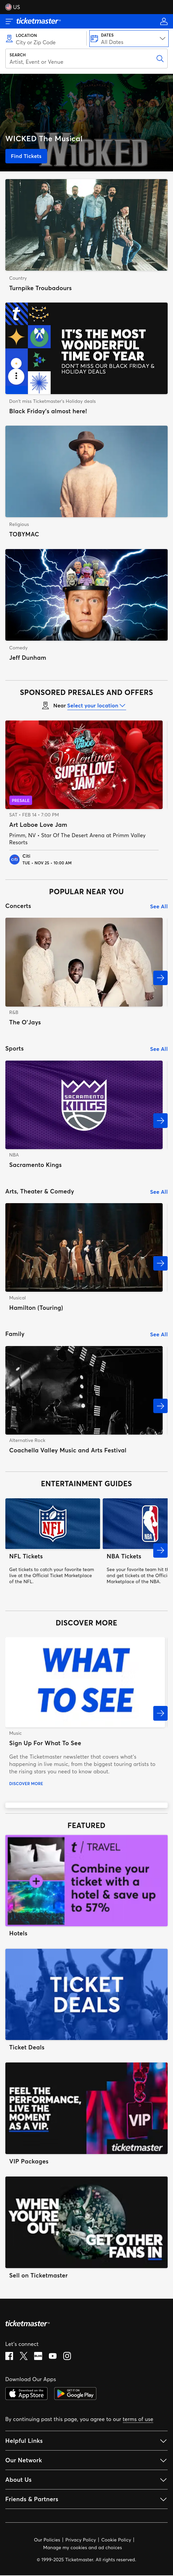
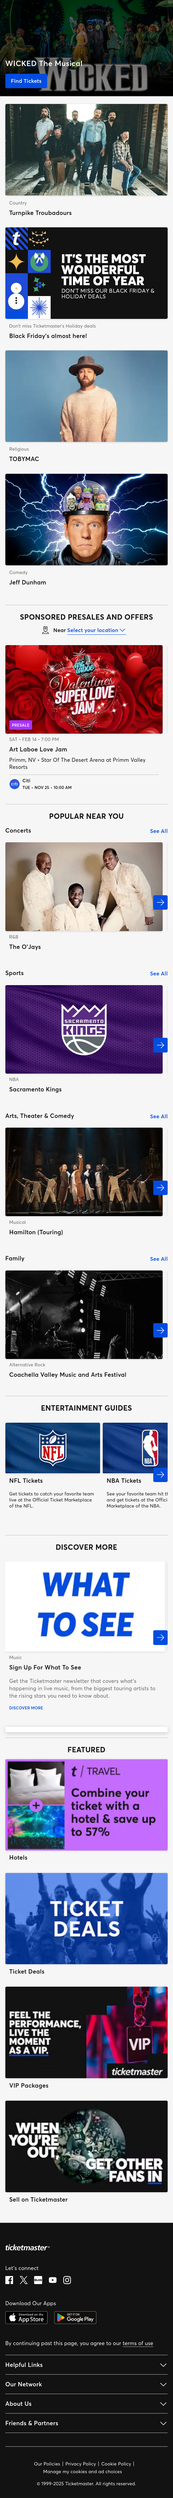
Updated TicketCard

diff --git a/src/components/TicketCard.jsx b/src/components/TicketCard.jsx
@@ -2,7 +2,8 @@ import React from "react";
 import { Box, Typography, Button } from "@mui/material";
 import { useEvent } from "../context/EventContext";
 
-import walletIcon from "../icons/icon_wallet.svg";
+import InfoOutlineIcon from '@mui/icons-material/InfoOutline';
+import barcodeIcon from "../icons/barcode-scan-icon.png";
 import verified from "../assets/ver.png";
 
 export default function TicketCard({ event, seatInfo }) {
@@ -28,25 +29,37 @@ export default function TicketCard({ event, seatInfo }) {
       }}
     >
       {/* Top Blue Bar */}
-      <Box
-        sx={{
-          height: 30,
-          background: "#0064ca",
-          borderTopLeftRadius: 8,
-          borderTopRightRadius: 8,
-          color: "#ffffff",
-          textAlign: "center",
-        }}
-      >
-        <Typography sx={{ pt: 0.5, fontSize: 13, fontWeight: 500 }}>
-          {ticket.title}
-        </Typography>
-      </Box>
+        <Box
+          sx={{
+            height: 30,
+            background: "#024ddf",
+            borderTopLeftRadius: 8,
+            borderTopRightRadius: 8,
+            color: "#ffffff",
+            display: "flex",
+            alignItems: "center",
+            px: 1,
+            position: "relative",
+          }}
+        >
+          {/* Left spacer */}
+          <Box sx={{ flex: 1 }} />
+
+          {/* Center title */}
+          <Typography sx={{ fontSize: 13, fontWeight: 500, textAlign: "center" }}>
+            {ticket.title}
+          </Typography>
+
+          {/* Right icon */}
+          <Box sx={{ flex: 1, display: "flex", justifyContent: "flex-end" }}>
+            <InfoOutlineIcon sx={{opacity: 0.7}}/>
+          </Box>
+        </Box>
 
       {/* SEC/ROW/SEAT */}
       <Box
         sx={{
-          background: "#0071e3",
+          background: "#024ddf",
           color: "white",
           p: 2,
           textAlign: "center",
@@ -61,21 +74,21 @@ export default function TicketCard({ event, seatInfo }) {
           }}
         >
           <Box sx={{ textAlign: "center" }}>
-            <Typography sx={{ opacity: 0.7, fontSize: 12 }}>SEC</Typography>
+            <Typography sx={{ opacity: 0.7, fontSize: 13 }}>SEC</Typography>
             <Typography sx={{ fontWeight: 700, fontSize: 22 }}>
               {seat.sec}
             </Typography>
           </Box>
 
           <Box sx={{ textAlign: "center" }}>
-            <Typography sx={{ opacity: 0.7, fontSize: 12 }}>ROW</Typography>
+            <Typography sx={{ opacity: 0.7, fontSize: 13 }}>ROW</Typography>
             <Typography sx={{ fontWeight: 700, fontSize: 22 }}>
               {seat.row}
             </Typography>
           </Box>
 
           <Box sx={{ textAlign: "center" }}>
-            <Typography sx={{ opacity: 0.7, fontSize: 12 }}>SEAT</Typography>
+            <Typography sx={{ opacity: 0.7, fontSize: 13 }}>SEAT</Typography>
             <Typography sx={{ fontWeight: 700, fontSize: 22 }}>
               {seat.seat}
             </Typography>
@@ -131,7 +144,7 @@ export default function TicketCard({ event, seatInfo }) {
       <Typography
         sx={{
           textAlign: "center",
-          mt: 4,
+          mt: 6.5,
           fontWeight: 500,
           fontSize: 15,
         }}
@@ -140,15 +153,15 @@ export default function TicketCard({ event, seatInfo }) {
       </Typography>
 
       {/* Add to Apple Wallet */}
-      <Box sx={{ p: 2, mt: 2, textAlign: "center" }}>
+      <Box sx={{ p: 2, mt: 0, textAlign: "center" }}>
         <Button
           variant="contained"
           sx={{
-            background: "#1a1a1a",
-            width: "70%",
-            borderRadius: 2,
+            background: "#024ddf",
+            width: "95%",
+            borderRadius: 0,
             textTransform: "none",
-            fontWeight: 500,
+            fontWeight: 600,
             display: "flex",
             alignItems: "center",
             justifyContent: "center",
@@ -159,11 +172,11 @@ export default function TicketCard({ event, seatInfo }) {
           }}
         >
           <img
-            src={walletIcon}
+            src={barcodeIcon}
             alt="Apple Wallet"
-            style={{ width: 22, height: 22 }}
+            style={{ filter: "invert(1)", width: 22, height: 22 }}
           />
-          Add to Apple Wallet
+          View Ticket
         </Button>
       </Box>
 
@@ -172,15 +185,12 @@ export default function TicketCard({ event, seatInfo }) {
         sx={{
           display: "flex",
           justifyContent: "space-around",
-          pb: 4,
-          mt: 2,
+          pb: 8,
+          mt: 0,
         }}
       >
-        <Typography sx={{ color: "#0071e3", fontWeight: 700, fontSize: 13 }}>
-          View Barcode
-        </Typography>
 
-        <Typography sx={{ color: "#0071e3", fontWeight: 700, fontSize: 13 }}>
+        <Typography sx={{ color: "#026cdf", fontWeight: 700, fontSize: 13 }}>
           Ticket Details
         </Typography>
       </Box>
@@ -188,8 +198,8 @@ export default function TicketCard({ event, seatInfo }) {
       {/* Bottom Verified Badge */}
       <Box
         sx={{
-          height: 30,
-          background: "#0064ca",
+          height: 2,
+          background: "#024ddf",
           borderBottomLeftRadius: 8,
           borderBottomRightRadius: 8,
           display: "flex",
@@ -198,11 +208,13 @@ export default function TicketCard({ event, seatInfo }) {
           px: 1,
         }}
       >
+      {/*
         <img
           src={verified}
           alt="ticketmaster verified"
           style={{ height: 24 }}
-        />
+        /> 
+      */}
       </Box>
     </Box>
   );

diff --git a/src/pages/Home.jsx b/src/pages/Home.jsx
@@ -1,26 +1,132 @@
 import React from "react";
-import { Box } from "@mui/material";
-import DiscoverImage from "../assets/Discover.png";
+import { Box, Divider, Typography, Avatar } from "@mui/material";
+import LocationOnOutlinedIcon from "@mui/icons-material/LocationOnOutlined";
+import CalendarMonthOutlinedIcon from "@mui/icons-material/CalendarMonthOutlined";
+import SearchIcon from "@mui/icons-material/Search";
+import TicketmasterLogo from "../assets/ticketmaster.png"; 
+import DiscoverScreenshot from "../assets/Discover.png"; 
 
 const Discover = () => {
   return (
-    <Box
-      sx={{
-        width: "100%",
-        height: "100vh",
-        overflowY: "auto",
-        backgroundColor: "#000",
-      }}
-    >
-      <img
-        src={DiscoverImage}
-        alt="Ticketmaster Discover"
-        style={{
-          width: "100%",
-          height: "auto",
-          display: "block",
+    <Box sx={{ width: "100%", height: "100vh", overflowY: "auto" }}>
+      {/* TOP DARK SECTION */}
+      <Box
+        sx={{
+          backgroundColor: "#1a262d",
+          paddingBottom: "45px",
+          paddingTop: "20px",
         }}
-      />
+      >
+        {/* HEADER */}
+        <Box sx={{ textAlign: "center", position: "relative", mb:2.5 }}>
+          <Box
+            component="img"
+            src={TicketmasterLogo}
+            alt="ticketmaster logo"
+            sx={{
+              width: 120,
+              height: "auto",
+              mx: "auto",
+              display: "block",
+              objectFit: "contain",
+            }}
+          />
+      {/* FLAG ICON */}
+          <Box sx={{ position: "absolute", right: 20, top: 1 }}>
+            <Avatar
+              src="https://flagcdn.com/us.svg"
+              alt="US Flag"
+              sx={{
+                width: 20,
+                height: 20,
+                marginLeft: 1,
+                borderRadius: "50%",
+              }}
+            />
+          </Box>
+        </Box>
+
+        {/* FILTER BOX */}
+        <Box
+          sx={{
+            backgroundColor: "#29343d",
+            padding: "15px",
+            borderRadius: "4px",
+            width: "90%",
+            margin: "0 auto",
+            marginTop: "15px",
+          }}
+        >
+          {/* Location + Date */}
+          <Box sx={{ display: "flex", justifyContent: "space-between", mb: 4 }}>
+            <Box sx={{ display: "flex", alignItems: "center" }}>
+              <LocationOnOutlinedIcon
+                sx={{ fontSize: 20, color: "#1a92e7", mr: 1 }}
+              />
+              <Typography sx={{ color: "#B8C0CC", fontSize: 14 }}>
+                City or Zip Code
+              </Typography>
+            </Box>
+
+            <Box sx={{ display: "flex", alignItems: "center", mr: 4 }}>
+              <CalendarMonthOutlinedIcon
+                sx={{ fontSize: 20, color: "#1a92e7", mr: 1 }}
+              />
+              <Typography sx={{ color: "#B8C0CC", fontSize: 14 }}>
+                All Dates
+              </Typography>
+            </Box>
+          </Box>
+
+          <Divider sx={{ bgColor: "#ffffff"}} />
+          {/* SEARCH BAR */}
+          <Box
+            sx={{
+              backgroundColor: "white",
+              borderRadius: "4px",
+              padding: "8px 12px",
+              display: "flex",
+              alignItems: "center",
+            }}
+          >
+            <SearchIcon sx={{ color: "#a6a6a6" }} />
+
+            <input
+              placeholder="Search for artists, venues, and events"
+              style={{
+                border: "none",
+                outline: "none",
+                marginLeft: "8px",
+                width: "100%",
+                fontSize: "15px",
+              }}
+            />
+          </Box>
+        </Box>
+      </Box>
+
+      {/* WHITE BODY SECTION */}
+      <Box
+          sx={{
+            backgroundColor: "white",
+            paddingBottom: "120px",
+            height: "calc(100vh - 120px)", // full screen minus bottom nav
+            overflowY: "auto",             // scrollable
+          }}
+        >
+          <Box
+            component="img"
+            src={DiscoverScreenshot}
+            alt="Discover page screenshot"
+            sx={{
+              width: "100%",
+              height: "auto",
+              display: "block",
+              userSelect: "none",
+              pointerEvents: "none", // prevents accidental dragging
+            }}
+          />
+        </Box>
     </Box>
   );
 };
